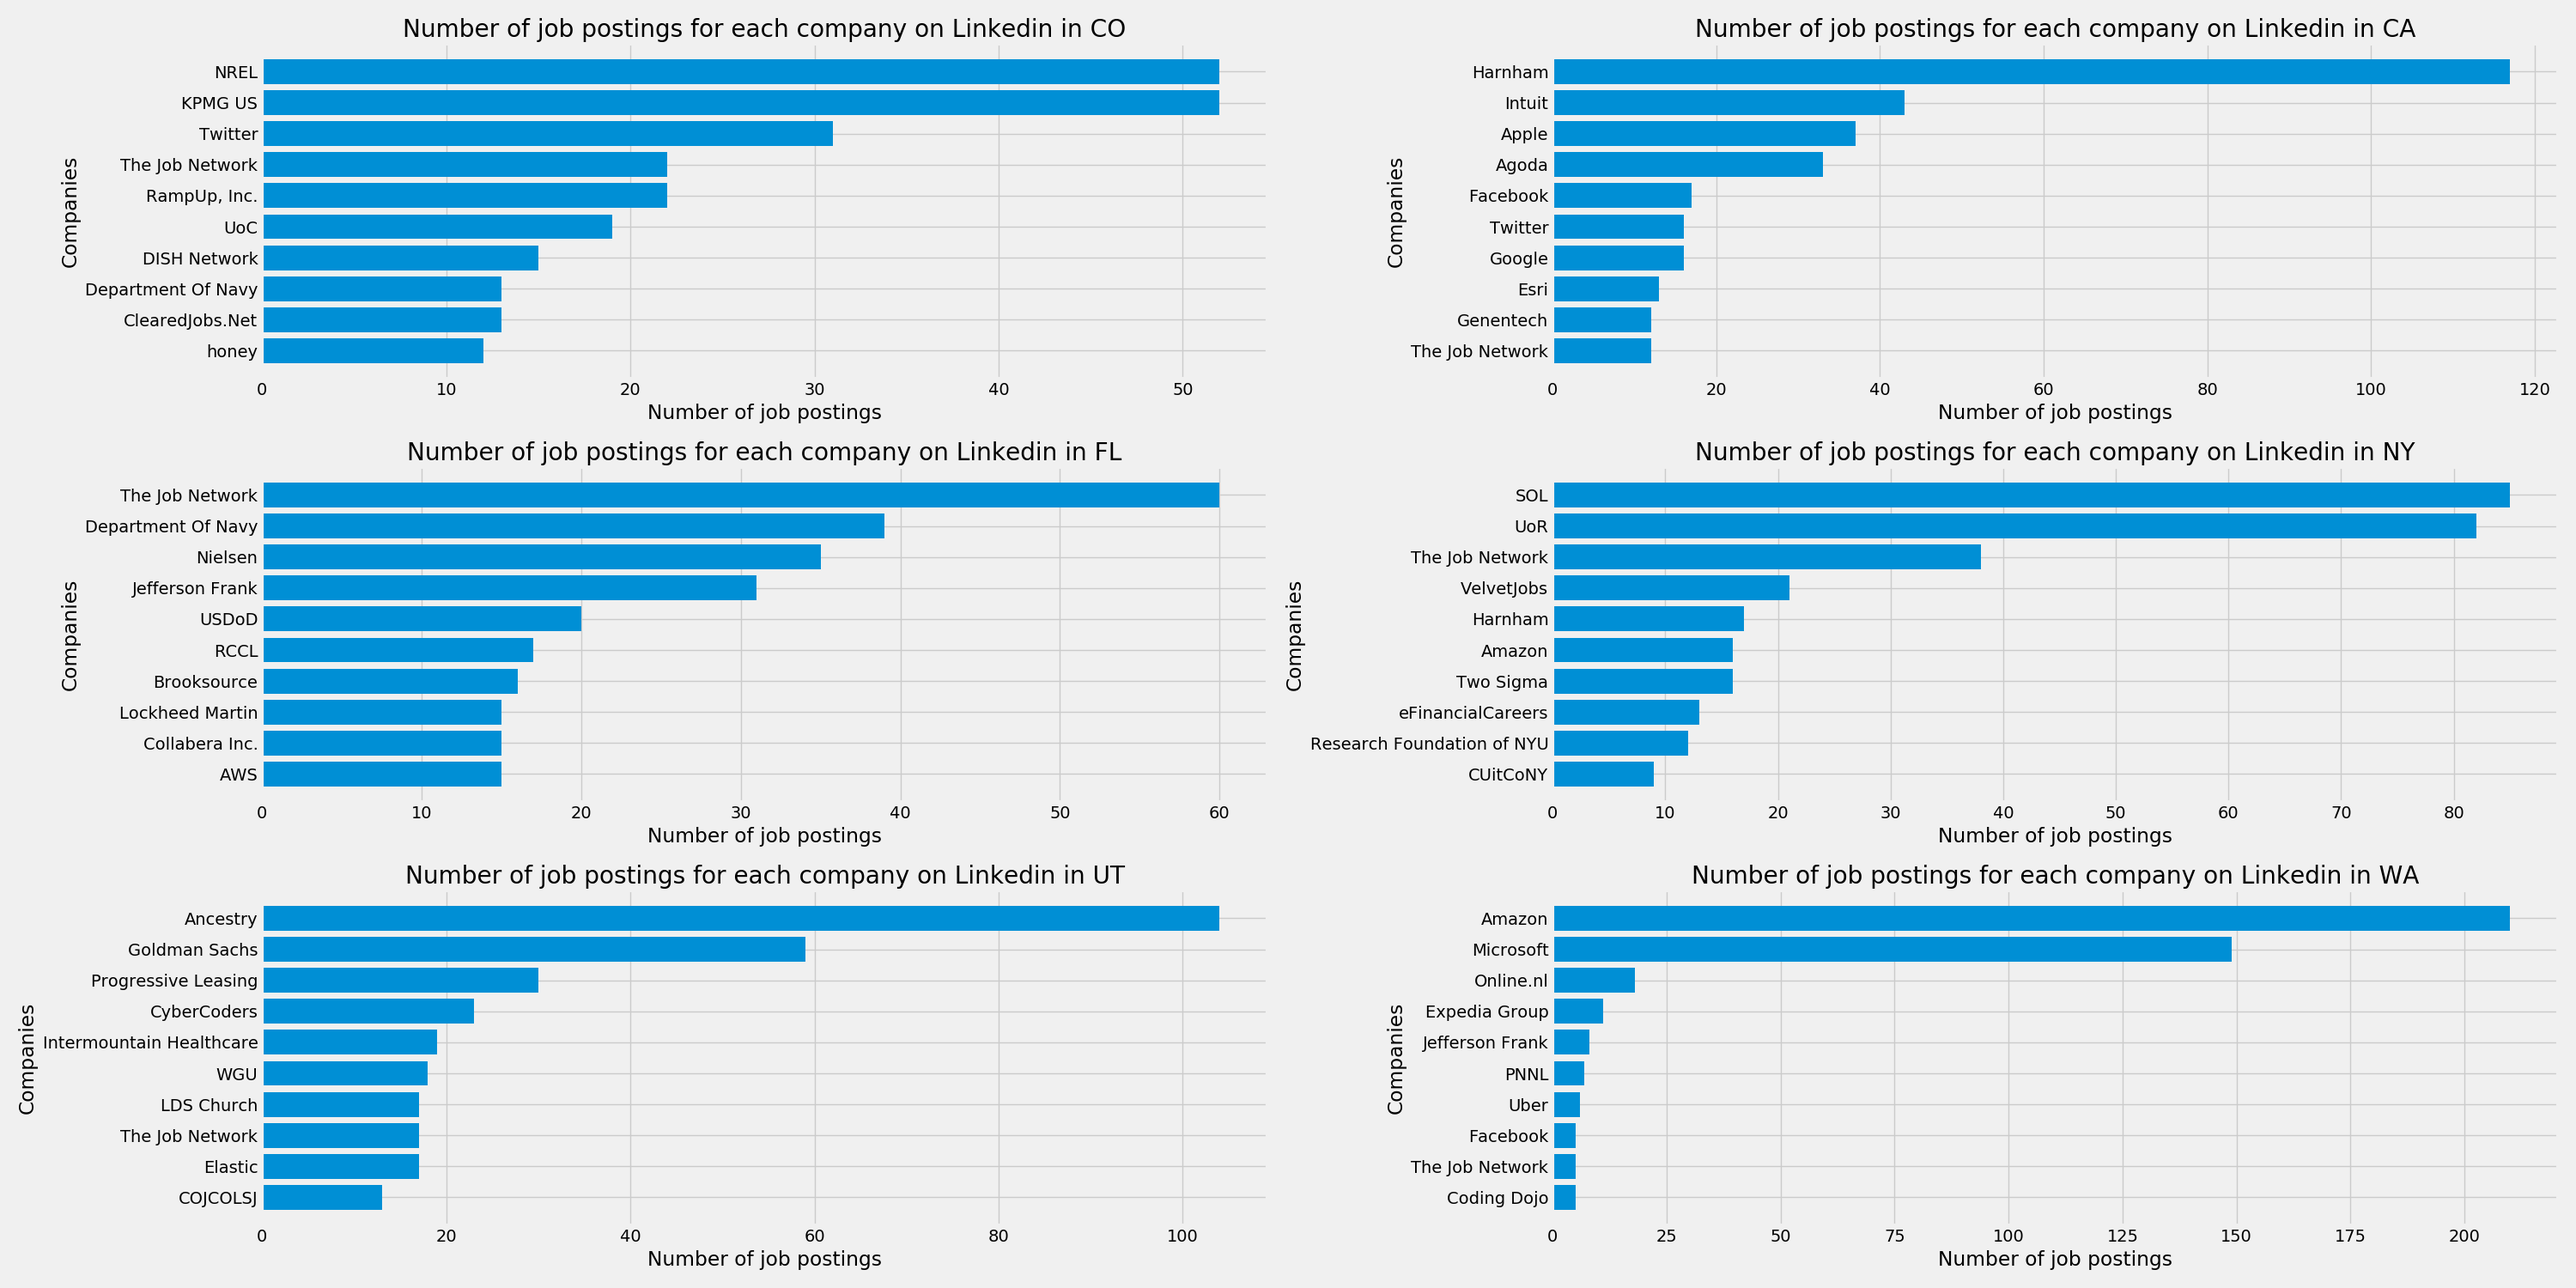
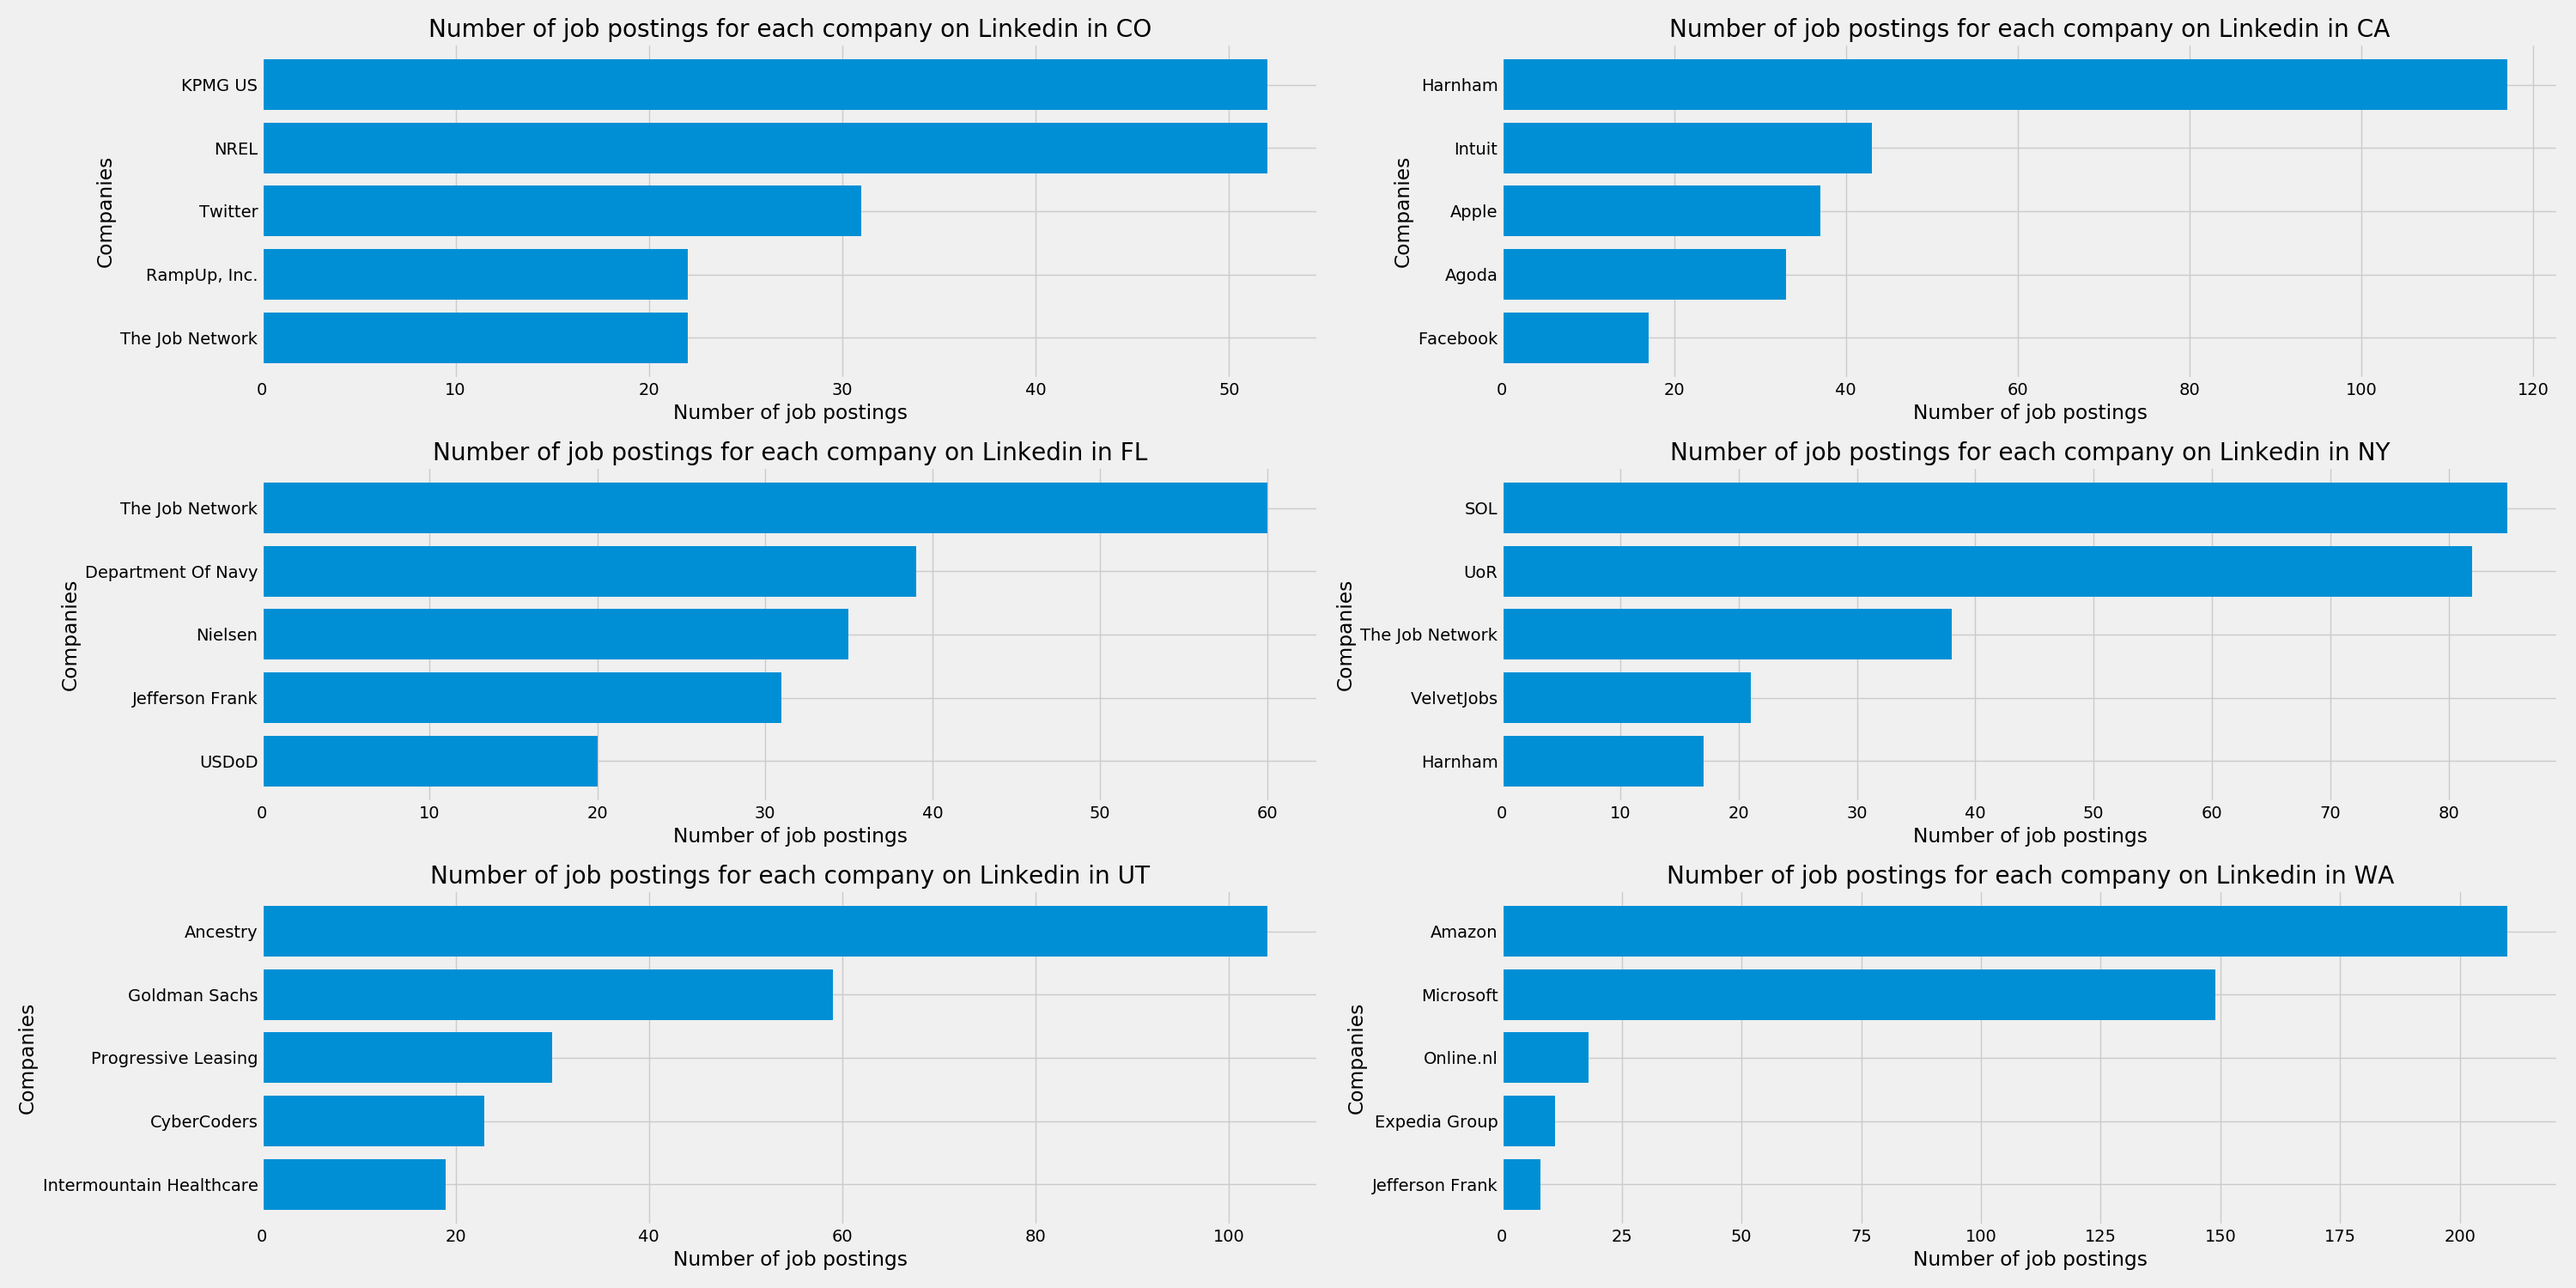
Changed 6 graph figure to include less jobs

diff --git a/src/graphing_eda.py b/src/graphing_eda.py
@@ -93,7 +93,7 @@ plt.savefig('../imgs/linkedin_top_companies_longest_descriptions.png')
 
 def graph_top10_companies(state_id, ax):
     df_all_state = df_all[df_all['State'] == state_id]
-    companies_state = df_all_state['Company'].value_counts().index[:10]
+    companies_state = df_all_state['Company'].value_counts().index[:5]
     companies_state = list(companies_state)
 
     for idx, comp in enumerate(companies_state):
@@ -117,7 +117,7 @@ def graph_top10_companies(state_id, ax):
         
     companies_state = companies_state[::-1]
 
-    jobs_state = df_all_state['Company'].value_counts().values[:10]
+    jobs_state = df_all_state['Company'].value_counts().values[:5]
     jobs_state = jobs_state[::-1]
 
     ax.barh(companies_state, jobs_state)

diff --git a/src/NLTK_testing.py b/src/NLTK_testing.py
@@ -12,7 +12,6 @@ def init_cleanning_classes():
     
     None
 
-
     :returns: 
 
     stopWords: Set of stopwords in English
